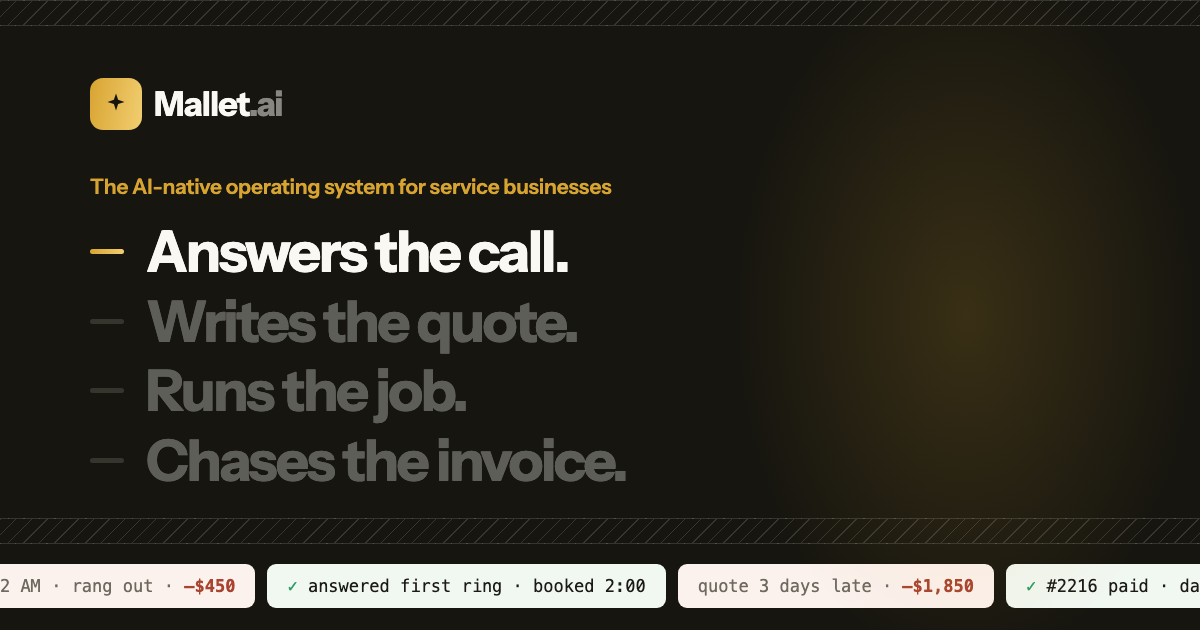
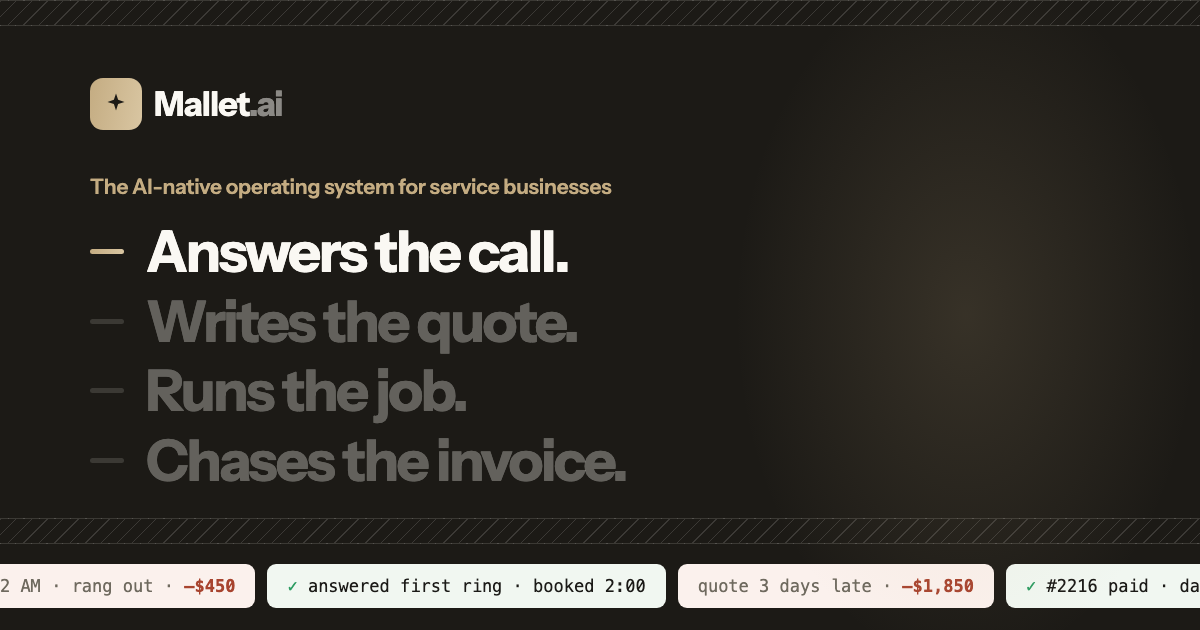
design: Sandstone — the chalky system (Owen's pick from the gallery)
Full token swap from gold to the powdered register:
- charcoal #1C1A16 hero (was near-black #16150F)
- sand #C4AC82 / stone #8C7350 replace gold/bronze; metal gradient
  #8C7350→#C4AC82 (shimmers, doesn't blaze); glows/shadows recast
- amber-tinted creams → sandstone creams (F8F4E9/F2ECDC/E0D6BC/…)
- og.png regenerated in Sandstone
Zero gold literals remain (grep-verified).

Changed region(s): [[0.0617, 0.2714, 0.5242, 0.3317], [0.0617, 0.1206, 0.1233, 0.2111], [0.0617, 0.3921, 0.0925, 0.4222]]

diff --git a/styles.css b/styles.css
@@ -12,13 +12,13 @@
   --ink-soft:#6F6A5F;
   --line:#E6E0D4;
   --line-dark:rgba(255,255,255,.10);
-  --amber:#9A6E00;
-  --amber-deep:#7A5600;
-  --forge:#16150F;
-  --gold:#D8A431;
-  --gold-2:#F2CE71;
-  --metal:linear-gradient(100deg,#8F6504,#D8A431);
-  --metal-hover:linear-gradient(100deg,#9A6E00,#E4B448);
+  --amber:#8C7350;
+  --amber-deep:#6E5A3E;
+  --forge:#1C1A16;
+  --gold:#C4AC82;
+  --gold-2:#D9C6A2;
+  --metal:linear-gradient(100deg,#8C7350,#C4AC82);
+  --metal-hover:linear-gradient(100deg,#977D57,#D2BC94);
   --live:#2E9D63;
   --r:16px;
   --rb:11px;
@@ -83,8 +83,8 @@ strong{font-weight:700}
 .btn-primary:hover{transform:translateY(-1px);box-shadow:0 10px 26px rgba(27,26,23,.22)}
 .btn-outline{background:transparent;color:var(--ink)}
 .btn-outline:hover{background:var(--ink);color:var(--paper)}
-.btn-amber{background:var(--metal);color:#16150F;border-color:transparent;box-shadow:0 8px 24px -8px rgba(154,110,0,.45)}
-.btn-amber:hover{transform:translateY(-1px);background:var(--metal-hover);box-shadow:0 12px 30px -8px rgba(154,110,0,.55)}
+.btn-amber{background:var(--metal);color:#16150F;border-color:transparent;box-shadow:0 8px 24px -8px rgba(140,115,80,.4)}
+.btn-amber:hover{transform:translateY(-1px);background:var(--metal-hover);box-shadow:0 12px 30px -8px rgba(140,115,80,.5)}
 .lg{padding:1rem 1.7rem;font-size:1.02rem}
 .caps .btn-outline{border-color:var(--paper);color:var(--paper)}
 .cta-row{margin-top:2.4rem;display:flex;justify-content:center}
@@ -146,7 +146,7 @@ strong{font-weight:700}
 .hero{position:relative;background:var(--forge);color:var(--paper);padding:4.2rem 0 4.6rem;overflow:hidden}
 .hero::before{ /* the forge glow behind the stage */
   content:"";position:absolute;top:-24%;right:-8%;width:56%;height:150%;
-  background:radial-gradient(closest-side, rgba(216,164,49,.16), transparent 70%);
+  background:radial-gradient(closest-side, rgba(196,172,130,.14), transparent 70%);
   pointer-events:none;
 }
 .hero-grid{display:grid;grid-template-columns:1.04fr .96fr;gap:4rem;align-items:center;position:relative}
@@ -165,9 +165,9 @@ strong{font-weight:700}
 .hero-actions{display:flex;gap:1rem;flex-wrap:wrap;margin-top:2.1rem;justify-content:flex-start}
 .hero .btn-primary{
   background:var(--metal);color:var(--forge);border-color:transparent;
-  box-shadow:0 10px 34px -8px rgba(216,164,49,.55);
+  box-shadow:0 10px 34px -8px rgba(196,172,130,.45);
 }
-.hero .btn-primary:hover{background:var(--metal-hover);box-shadow:0 14px 40px -8px rgba(216,164,49,.7)}
+.hero .btn-primary:hover{background:var(--metal-hover);box-shadow:0 14px 40px -8px rgba(196,172,130,.6)}
 .hero .btn-amber{background:transparent;color:var(--paper);border:1.5px solid rgba(250,248,243,.32)}
 .hero .btn-amber:hover{background:rgba(250,248,243,.08);border-color:var(--paper);box-shadow:none;transform:translateY(-1px)}
 .hero-kicker{font-size:1rem;font-weight:600;color:var(--gold);letter-spacing:-.01em;margin-bottom:.2rem}
@@ -198,7 +198,7 @@ strong{font-weight:700}
 }
 .sb-title{font-family:var(--font-mono);font-size:.62rem;letter-spacing:.14em;color:rgba(250,248,243,.45)}
 .sb-bar{height:9px;border-radius:5px;background:rgba(250,248,243,.08);border:1px solid rgba(250,248,243,.1);margin-top:.5rem}
-.sb-bar.w1{width:84%;background:rgba(216,164,49,.35)}
+.sb-bar.w1{width:84%;background:rgba(196,172,130,.35)}
 .sb-bar.w2{width:58%}
 .sb-bar.w3{width:70%}
 /* ---- the four acts ---- */
@@ -217,7 +217,7 @@ strong{font-weight:700}
   background:var(--parchment);border:1px solid var(--line);border-radius:12px;padding:1rem 0 .8rem;
   transition:border-color .3s ease, box-shadow .3s ease;
 }
-.tile.speaking{border-color:var(--amber);box-shadow:0 0 0 3px rgba(176,125,0,.14)}
+.tile.speaking{border-color:var(--amber);box-shadow:0 0 0 3px rgba(140,115,80,.12)}
 .avatar{width:44px;height:44px;border-radius:50%;background:var(--ink);color:var(--paper);display:grid;place-items:center;font-weight:700;font-size:1.02rem}
 .ai-mark{width:44px;height:44px;border-radius:50%;background:var(--amber);color:#fff;display:grid;place-items:center;font-size:1.15rem}
 .tile.speaking .avatar,.tile.speaking .ai-mark{animation:speakpulse 1.1s ease-in-out infinite}
@@ -246,7 +246,7 @@ strong{font-weight:700}
 .qc-cust b{color:var(--ink)}
 .qc-tag{font-family:var(--font-mono);font-size:.58rem;letter-spacing:.12em;border:1px solid var(--line);border-radius:999px;padding:.22rem .55rem;margin-left:.4rem;vertical-align:2px}
 .qc-ask{
-  display:flex;align-items:center;margin-top:.7rem;background:#FFF8E6;border:1.5px solid var(--ink);
+  display:flex;align-items:center;margin-top:.7rem;background:#F8F4E9;border:1.5px solid var(--ink);
   border-radius:12px;padding:.6rem .85rem;font-family:var(--font-mono);font-size:.82rem;color:var(--ink);
 }
 .qc-caret{width:2px;height:1.1em;background:var(--ink);margin-left:2px;animation:caretblink 1s steps(1) infinite}
@@ -275,7 +275,7 @@ strong{font-weight:700}
 .gbb{display:grid;grid-template-columns:repeat(3,1fr);gap:.5rem;text-align:center}
 .gbb span{border:1px solid var(--line);border-radius:10px;padding:.5rem .3rem .55rem;font-family:var(--font-mono);font-size:.6rem;letter-spacing:.12em;color:var(--ink-soft)}
 .gbb b{display:block;font-family:var(--font-body);font-size:1.05rem;letter-spacing:-.01em;color:var(--ink);margin-top:.15rem}
-.gbb .mid{border-color:var(--amber);background:#FFF8E6}
+.gbb .mid{border-color:var(--amber);background:#F8F4E9}
 .qc-sent{margin-top:.6rem;font-family:var(--font-mono);font-size:.7rem;color:var(--live)}
 
 /* act 3 · the job */
@@ -312,7 +312,7 @@ strong{font-weight:700}
 .inv-status.paid{color:var(--live);border-color:#DCEDDD;background:#F0F7F0;font-weight:700}
 .inv-thread{margin-top:.85rem;display:flex;flex-direction:column;gap:.6rem}
 .inv-msg{
-  background:#FFF3D6;border:1px solid #F2E4BC;border-radius:14px;border-bottom-left-radius:5px;
+  background:#F2ECDC;border:1px solid #E0D6BC;border-radius:14px;border-bottom-left-radius:5px;
   padding:.6rem .9rem .7rem;font-size:.88rem;line-height:1.45;max-width:88%;color:var(--ink);
   opacity:0;transform:translateY(8px);transition:opacity .45s ease, transform .45s ease;
 }
@@ -341,7 +341,7 @@ strong{font-weight:700}
 .beat:hover{color:var(--paper)}
 .beat:focus-visible{outline:2px solid var(--gold);outline-offset:4px;border-radius:4px}
 .beat.on{color:rgba(250,248,243,.55)}
-.beat.on::before{width:26px;background:#8a7645}
+.beat.on::before{width:26px;background:#7d6f55}
 .beat.now{color:var(--paper)}
 .beat.now::before{width:26px;background:var(--metal)}
 
@@ -379,7 +379,7 @@ strong{font-weight:700}
 .feed-meta::before{content:attr(data-t) "  ";color:#B9B2A2}
 .feed-meta .ok{color:var(--live);font-weight:700;margin-right:.2rem}
 .feed-bubble{max-width:72%;padding:.72rem 1.05rem;font-size:.96rem;line-height:1.45;border-radius:16px}
-.feed-bubble.in{align-self:flex-start;background:#FFF3D6;color:var(--ink);border:1px solid #F2E4BC;border-bottom-left-radius:5px}
+.feed-bubble.in{align-self:flex-start;background:#F2ECDC;color:var(--ink);border:1px solid #E0D6BC;border-bottom-left-radius:5px}
 .feed-bubble.out{align-self:flex-end;background:var(--ink);color:var(--paper);border-bottom-right-radius:5px}
 
 /* feed animation: lines hidden until .on (added in order by main.js) */
@@ -403,7 +403,7 @@ strong{font-weight:700}
 .roi{position:relative;background:var(--parchment);color:var(--ink);padding:5.5rem 0 6rem;overflow:hidden}
 .roi::before{ /* soft amber glow behind the window */
   content:"";position:absolute;top:6%;right:-8%;width:52%;height:100%;
-  background:radial-gradient(closest-side, rgba(176,125,0,.10), transparent 72%);
+  background:radial-gradient(closest-side, rgba(140,115,80,.10), transparent 72%);
   pointer-events:none;
 }
 .roi .wrap{position:relative}
@@ -531,7 +531,7 @@ input[type="range"]::-moz-range-track{height:4px;border-radius:99px;background:#
 .af-panel.on{opacity:1;visibility:visible;transform:none;transition:opacity .42s ease, transform .42s ease}
 .af-top{display:flex;align-items:center;justify-content:space-between;margin-bottom:1.1rem}
 .af-top b{font-family:var(--font-display);font-size:1.35rem;letter-spacing:-.02em}
-.af-pill{font-family:var(--font-mono);font-size:.6rem;letter-spacing:.13em;color:var(--amber-deep);border:1px solid var(--amber);border-radius:999px;padding:.3rem .7rem;background:#FFF8E6}
+.af-pill{font-family:var(--font-mono);font-size:.6rem;letter-spacing:.13em;color:var(--amber-deep);border:1px solid var(--amber);border-radius:999px;padding:.3rem .7rem;background:#F8F4E9}
 .af-foot{margin-top:auto;font-size:.86rem;color:var(--ink-soft);border-top:1px dashed var(--line);padding-top:.85rem}
 .af-time{font-family:var(--font-mono);font-size:.62rem;letter-spacing:.1em;color:var(--amber-deep)}
 .af-meta{font-family:var(--font-mono);font-size:.7rem;color:var(--ink-soft);line-height:1.6}
@@ -541,7 +541,7 @@ input[type="range"]::-moz-range-track{height:4px;border-radius:99px;background:#
 .af-thread{display:flex;flex-direction:column;gap:.6rem;max-width:52ch}
 .af-bub{padding:.6rem .95rem;border-radius:14px;font-size:.92rem;line-height:1.45;max-width:88%}
 .af-bub.in{align-self:flex-end;background:var(--ink);color:var(--paper);border-bottom-right-radius:5px}
-.af-bub.ai{align-self:flex-start;background:#FFF3D6;border:1px solid #F2E4BC;border-bottom-left-radius:5px}
+.af-bub.ai{align-self:flex-start;background:#F2ECDC;border:1px solid #E0D6BC;border-bottom-left-radius:5px}
 .af-ask{
   margin-top:auto;display:flex;align-items:center;gap:.6rem;
   font-family:var(--font-mono);font-size:.78rem;color:var(--ink-soft);
@@ -557,11 +557,11 @@ input[type="range"]::-moz-range-track{height:4px;border-radius:99px;background:#
 .af-card{background:var(--paper);border:1px solid var(--line);border-radius:10px;padding:.6rem .7rem .65rem;font-size:.8rem}
 .af-card b{display:flex;justify-content:space-between;gap:.4rem;font-size:.84rem;letter-spacing:-.01em}
 .af-card span{display:block;color:var(--ink-soft);line-height:1.4;margin-top:.2rem;font-size:.76rem}
-.af-card.hot{border-color:var(--amber);background:#FFFDF4}
+.af-card.hot{border-color:var(--amber);background:#FBFAF5}
 .af-amt{font-style:normal;font-weight:700}
 .af-gbb{display:flex;gap:.3rem;margin-top:.45rem}
 .af-gbb i{font-style:normal;font-family:var(--font-mono);font-size:.55rem;letter-spacing:.04em;border:1px solid var(--line);border-radius:6px;padding:.2rem .35rem;color:var(--ink-soft);white-space:nowrap}
-.af-gbb i.sel{border-color:var(--amber);background:#FFF8E6;color:var(--ink);font-weight:700}
+.af-gbb i.sel{border-color:var(--amber);background:#F8F4E9;color:var(--ink);font-weight:700}
 
 /* stop 3 — jobs / foreman */
 .af-jobh{display:flex;align-items:baseline;gap:.8rem;margin-bottom:.8rem}
@@ -575,7 +575,7 @@ input[type="range"]::-moz-range-track{height:4px;border-radius:99px;background:#
 }
 .af-ck li.done::before{content:"\2713";background:var(--ink);border-color:var(--ink);color:var(--paper);display:grid;place-items:center;font-size:.58rem}
 .af-ck li.req{color:var(--amber-deep)}
-.af-ck li.req::before{content:"!";border-color:var(--amber);background:#FFF3D6;color:var(--amber-deep);display:grid;place-items:center;font-weight:700;font-size:.62rem}
+.af-ck li.req::before{content:"!";border-color:var(--amber);background:#F2ECDC;color:var(--amber-deep);display:grid;place-items:center;font-weight:700;font-size:.62rem}
 .af-ck li em{font-style:normal;font-family:var(--font-mono);font-size:.64rem;color:var(--ink-soft)}
 
 /* stop 4 — invoices */
@@ -606,7 +606,7 @@ input[type="range"]::-moz-range-track{height:4px;border-radius:99px;background:#
 .af-convo span:last-child{grid-column:1 / -1;color:var(--ink-soft);white-space:nowrap;overflow:hidden;text-overflow:ellipsis;font-size:.76rem;margin-top:.1rem}
 .af-convo.on{background:var(--parchment)}
 .af-dot{position:absolute;left:-3px;top:.85rem;width:7px;height:7px;border-radius:50%;background:var(--amber)}
-.af-typing{display:inline-flex;gap:4px;background:#FFF3D6;border:1px solid #F2E4BC;border-radius:14px;border-bottom-left-radius:5px;padding:.6rem .8rem;align-self:flex-start}
+.af-typing{display:inline-flex;gap:4px;background:#F2ECDC;border:1px solid #E0D6BC;border-radius:14px;border-bottom-left-radius:5px;padding:.6rem .8rem;align-self:flex-start}
 .af-typing span{width:6px;height:6px;border-radius:50%;background:var(--amber-deep);animation:tdots 1s ease-in-out infinite}
 .af-typing span:nth-child(2){animation-delay:.15s}
 .af-typing span:nth-child(3){animation-delay:.3s}
@@ -631,11 +631,11 @@ input[type="range"]::-moz-range-track{height:4px;border-radius:99px;background:#
 }
 .af-tr b{color:var(--ink);font-size:.82rem;letter-spacing:-.01em;margin-right:.3rem}
 .af-tr.th{font-family:var(--font-mono);font-size:.56rem;letter-spacing:.12em;color:#B9B2A2;border-bottom:1px solid var(--line);padding-bottom:.4rem}
-.af-tr.on{background:#FFFDF4;border-radius:8px;border-bottom-color:transparent;box-shadow:inset 0 0 0 1px var(--amber)}
+.af-tr.on{background:#FBFAF5;border-radius:8px;border-bottom-color:transparent;box-shadow:inset 0 0 0 1px var(--amber)}
 .af-tr .r{text-align:right;font-weight:700;color:var(--ink)}
 .af-status{font-style:normal;font-family:var(--font-mono);font-size:.54rem;letter-spacing:.08em;border:1px solid var(--line);border-radius:999px;padding:.2rem .5rem;color:var(--ink-soft);white-space:nowrap}
-.af-status.prog{border-color:var(--amber);background:#FFF8E6;color:var(--amber-deep)}
-.af-status.warn{border-color:var(--amber);background:#FFF3D6;color:var(--amber-deep);font-weight:700}
+.af-status.prog{border-color:var(--amber);background:#F8F4E9;color:var(--amber-deep)}
+.af-status.warn{border-color:var(--amber);background:#F2ECDC;color:var(--amber-deep);font-weight:700}
 .af-status.paid,.af-status.done{color:var(--live);border-color:#DCEDDD;background:#F0F7F0;font-weight:700}
 .af-ckpane{background:var(--paper);border:1px solid var(--line);border-radius:12px;padding:.9rem 1rem 1rem;align-self:start}
 .af-ckh b{display:block;font-size:.92rem;letter-spacing:-.01em;margin:.15rem 0 .7rem}
@@ -652,7 +652,7 @@ input[type="range"]::-moz-range-track{height:4px;border-radius:99px;background:#
 @keyframes thinkpulse{0%,100%{opacity:.45}50%{opacity:1}}
 .af-thinking.gone{display:none}
 .af-answer{
-  margin-top:.5rem;background:#FFFDF4;border:1px solid var(--amber);
+  margin-top:.5rem;background:#FBFAF5;border:1px solid var(--amber);
   border-radius:10px;padding:.75rem .95rem .85rem;
   opacity:0;transform:translateY(8px);transition:opacity .45s ease, transform .45s ease;
 }
@@ -858,7 +858,7 @@ input[type="range"]::-moz-range-track{height:4px;border-radius:99px;background:#
 .qm-head{font-family:var(--font-mono);font-size:.66rem;letter-spacing:.12em;color:var(--ink-soft);padding-bottom:.8rem;border-bottom:1px solid var(--line);margin-bottom:.4rem}
 .qm-row{display:flex;align-items:baseline;gap:.9rem;padding:.85rem .2rem;border-bottom:1px solid var(--line)}
 .qm-row:last-of-type{border-bottom:0}
-.qm-row.sel{background:rgba(176,125,0,.08);border-radius:9px;padding-left:.7rem;padding-right:.7rem;border-bottom:1px solid var(--line)}
+.qm-row.sel{background:rgba(140,115,80,.10);border-radius:9px;padding-left:.7rem;padding-right:.7rem;border-bottom:1px solid var(--line)}
 .qm-tier{font-family:var(--font-mono);font-size:.64rem;letter-spacing:.1em;color:var(--amber-deep);min-width:52px}
 .qm-desc{flex:1;font-size:.95rem;color:var(--ink)}
 .qm-desc.wide{min-width:0}
@@ -874,7 +874,7 @@ input[type="range"]::-moz-range-track{height:4px;border-radius:99px;background:#
 .bm-name{font-family:var(--font-mono);font-size:.68rem;letter-spacing:.08em;color:var(--ink-soft);min-width:52px}
 .bm-block{font-size:.8rem;font-weight:600;padding:.42rem .7rem;border-radius:8px;white-space:nowrap}
 .bm-block.b1{background:var(--parchment);border:1px solid var(--line);color:var(--ink)}
-.bm-block.b2{background:rgba(176,125,0,.1);border:1px solid rgba(176,125,0,.35);color:var(--amber-deep)}
+.bm-block.b2{background:rgba(140,115,80,.12);border:1px solid rgba(140,115,80,.35);color:var(--amber-deep)}
 .bm-block.b3{background:var(--ink);color:var(--paper);border:1px solid var(--ink)}
 
 /* industries grid (solutions) */
@@ -979,7 +979,7 @@ input[type="range"]::-moz-range-track{height:4px;border-radius:99px;background:#
 .lc-dial{
   flex:none;width:132px;height:132px;border-radius:50%;background:var(--card);
   border:1.5px solid var(--amber);display:flex;align-items:baseline;justify-content:center;
-  flex-wrap:wrap;align-content:center;box-shadow:0 16px 40px -14px rgba(176,125,0,.3);
+  flex-wrap:wrap;align-content:center;box-shadow:0 16px 40px -14px rgba(140,115,80,.25);
 }
 .lc-num{font-family:var(--font-display);font-weight:700;font-size:2.6rem;letter-spacing:-.03em;line-height:1}
 .lc-outof{font-family:var(--font-mono);font-size:.7rem;color:var(--ink-soft);margin-left:.25rem}
